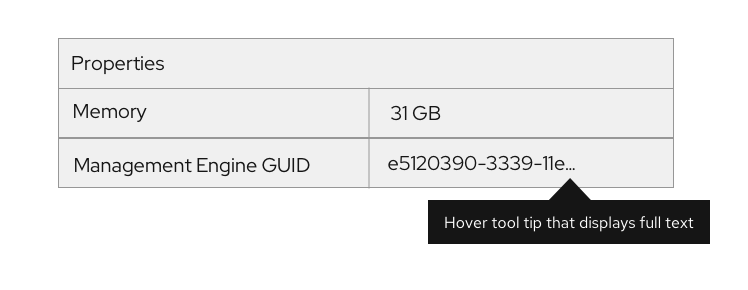
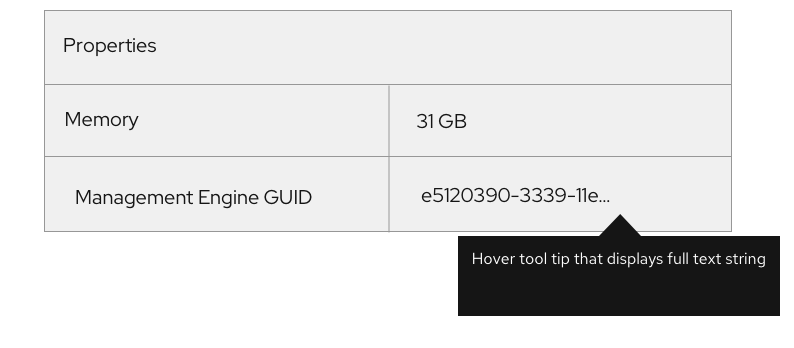
create truncate guidelines

Changed region(s): [[0.0307, 0.0931, 0.984, 0.931], [0.0307, 0.0, 0.9225, 0.0621], [0.492, 0.5276, 0.7687, 0.5897]]

diff --git a/packages/v4/src/content/design-guidelines/components/truncate/truncate.md b/packages/v4/src/content/design-guidelines/components/truncate/truncate.md
@@ -1,47 +1,54 @@
 ---
-id: Truncate design guidelines
+id: Truncate 
 section: components
 ---
 
 A **truncate** is a tool used to shorten numeric and non-numeric character strings, typically when the string overflows its container. 
 
 ## Elements
-* Content: text string to truncate
-* Position: where the text will be truncated from, ie. front, middle, or end
-* Tooltip hover: displayes full-text string 
-* Ellipsis: indicates a truncate is used
+* **Content**: text string to truncate
+* **Position**: where the text will be truncated from, ie. front, middle, or end
+* **Tooltip** hover: displayes full-text string 
+* **Ellipsis**: indicates a truncate is used
 
 ## Usage
 Truncated items are indicated by an ellipsis (...) and are used when trying to avoud multiple lines of text or when a container is being overflowed by content. Truncation should only be used when 3 or more characters are being represented and there are still at least 4 non-truncated characters displayed. Truncated items should always incldue a tooltip on hover, showcasing the full string sequence. 
 * **Breadcrumbs**: Use a breadcrumbs truncate when there isn’t enough room to display the entire breadcrumbs list, or as a way of managing relevance.
 <img src="./img/breadcrumb.png" alt="image showing breadcrumbs truncation" width="353" />
-* **Long URL's**:  Use a URL truncate when the url overflows its container
-<img src="./img/longurl.png" alt="image showing long url truncation" width="442" />
-* **Description text/alerts**: Use a truncate for description text to create more room on the page
-<img src="./img/truncatealert.png" alt="img showing alert truncate" width="632" />
-* **Table inputs**: Use truncation when the data within a table overflows its container
- <img src="./img/tabletruncate.png" alt="image showing table truncate" width="374" />
 
- ## Behavior
- A truncate indicates that the text string has been shortened, when the user hovers a mouse over the ellipsis, the full text will be displayed as a tooltip
+* **Long URL's**:  Use a URL truncate when the url overflows its container.
+<img src="./img/longurl.png" alt="image showing long url truncation" width="442" />
+
+* **Description text/alerts**: Use a truncate for description text to create more room on the page.
+<img src="./img/truncatealert.png" alt="img showing alert truncate" width="632" />
+
+* **Table inputs**: Use truncation when the data within a table overflows its container.
+ <img src="./img/tabletruncate.png" alt="image showing table truncate" width="397" />
+
+## Behavior
+ A truncate indicates that the text string has been shortened, when the user hovers a mouse over the ellipsis, the full text will be displayed as a tooltip.
 
 ## Variations
 * **Front-line**: Used at the beginning of a text string to indicate the text is being continued from a previous location. 
-<img src="./img/frontline.png" alt="image showing table truncate" width="331" />
+
+  <img src="./img/frontline.png" alt="image showing table truncate" width="331" />
+
 * **Mid-line**: Used to shorten a text string when the end of it can’t be truncated by an ellipsis. Also used when several text strings have the exact same middle characters, but the beginning and endings vary. 
-<img src="./img/midline.png" alt="image showing table truncate" width="331" />
+
+  <img src="./img/midline.png" alt="image showing table truncate" width="331" />
+
 * **End-line**: Used at the end of a text string to shorten the sequence and indicate that there is more content located elsewhere. 
    
-   <img src="./img/endline.png" alt="image showing table truncate" width="331" />
+  <img src="./img/endline.png" alt="image showing table truncate" width="331" />
 
 ## Content
-* If the text string is part of a link, the ellipsis should also be a part of the link
-* Always include hover tooltip to display the entire string to the user
-* Avoid abbreviations or truncated text in navigation items
+* If the text string is part of a link, the ellipsis should also be a part of the link.
+* Always include hover tooltip to display the entire string to the user.
+* Avoid abbreviations or truncated text in navigation items.
 * Truncate text within tables where the content overflows the container. Avoid  truncating table headings.
-* When truncating text, aim to leave at least four characters un-truncated so the user understands what it is (for example, don’t truncate “demo1.internal-el6satelite” to “de…”)
-* Truncate long item names if necessary
-* Avoid truncation directly before or after punctuation 
+* When truncating text, aim to leave at least four characters un-truncated so the user understands what it is (for example, don’t truncate “demo1.internal-el6satelite” to “de…”).
+* Truncate long item names if necessary.
+* Avoid truncation directly before or after punctuation.
 * If a table column is resizable, the truncated text should adjust accordingly. 
  
 
